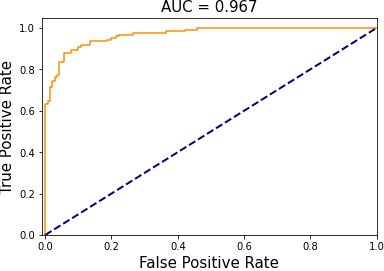
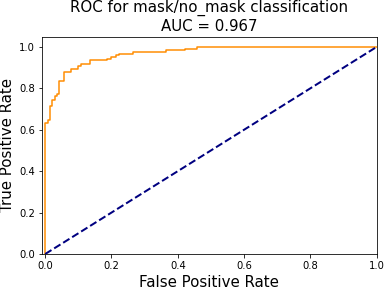
updating evaluation in the readme

Changed region(s): [[0.0, 0.0, 1.0, 1.0], [0.0312, 0.1476, 0.0938, 0.1771]]

diff --git a/README.MD b/README.MD
@@ -48,33 +48,33 @@ This allows us to keep track of performance on artificial and real data separate
 
 #### Overall evaluation
 
-Our test set of 135 images contains 254 faces, of which 136 are unmasked.
+Our test set of 135 images contains 249 faces, of which 130 are unmasked.
 
-The following table summarizes the performance of the complete pipeline (i.e. the face detector followed by the classifier).  
-We consider a face to be identified if the face detector produces a bounding box with an intersection over union (IoU) > 0.5 with the ground truth bounding box corresponding to that face.
+The following table summarizes the performance of the complete pipeline (i.e. the face detector followed by the classifier). We apply the mask/no_mask classifier to the cropped faces extracted by the face detector, and compare the resulting labels to the ground-truth labels of matching ground-truth face bounding boxes. A predicted face bounding box matches a ground truth bounding box if their intersection over union (IoU) > 0.5.
 
-The two most relevant metrics are the true negative rate (TNR) and the false negative rate (FNR). The first one tells us how many of the unmasked faces we detect, and the second one how many times we incorrectly identify an unmasked face.
-
-128 of the 136 unmasked faces were identified correctly, resulting in a **true negative rate (TNR) of 94%**. 20 of the 118 masked faces were incorrectly identified as unmasked, resulting in a **false negative rate (FNR) of 15.7%**.
 
 
 |    |      ground truth      |  identified and classified correctly | identified but classified wrongly | not identified by detector |
 |----------|:-------------:|------:| ------:|------:|
-| masked faces |  127 |  97 | 20 | 10 |
-| unmasked faces |    136   |   128 | 3 | 5  |
+| masked faces |  119 |  95 | 14 | 10 |
+| unmasked faces |    130   |   115 | 7 | 8  |
 
-The pipeline also incorrectly identified 6 faces that did not match any face in the ground truth, 5 of them were subsequently classified as non-masked and 1 as masked.
 
+The two most relevant metrics are the true negative rate (TNR) and the false negative rate (FNR). The first one tells us how many of the unmasked faces we detect, and the second one how many times we incorrectly identify an unmasked face. 115 of the 130 unmasked faces were identified correctly, resulting in a **true negative rate (TNR) of 88.5%**. 14 of the 119 masked faces were incorrectly identified as unmasked, resulting in a **false negative rate (FNR) of 11.8%**. The pipeline also incorrectly identified 15 faces that did not match any face in the ground truth, 7 of them were subsequently classified as non-masked and 1 as masked.
+
+While the previous statistics correspond to a mask/no_mask classification threshold at 0.5, we can of course vary this to trade off between better TNR or FNR. The following figure shows the ROC curve for the pipeline. For the generation of this ROC curve, we considered ground truth faces that were not detected by the face detector to be predicted as masked. After all, the aim is to detect unmasked faces so if the detector is not detecting any face it will have the same effect as predicting masked. Faces that are detected by the face detector but that don't exist in the ground truth were not taken into account in this ROC curve. 
+
+![](scripts/img/roc_complete.png "ROC curve")
 
 #### Evaluation of the face detector
 
-The face detector correctly identifies 94% of the ground truth faces in the test set (i.e. for 239 out of 254 ground truth bounding boxes there is a predicted bounding box with an IoU > 0.5). Of the 15 faces in the ground truth that it does not detect, 10 are masked and 5 are not masked. This means that 5 out of the 8 missed unmasked faces were due to the detector. The face detector also outputs 6 bounding boxes for the test set that do not correspond to faces, 5 of which were subsequently classified as masked.
+The face detector correctly identifies 92.8% of the ground truth faces in the test set (i.e. for 231 out of 249 ground truth bounding boxes there is a predicted bounding box with an IoU > 0.5). Of the 18 faces in the ground truth that it does not detect, 10 are masked and 8 are not masked. The face detector also outputs 15 bounding boxes for the test set that do not correspond to faces, 7 of which were subsequently classified as non masked.
 
 #### Evaluation of the mask/no mask classifier
 
-The mask/no mask classifier was evaluated on the faces that were correctly identified by the face detector. The inputs to the classifier were the crops corresponding to faces identified by the face detector. With a classification threshold at 0.5, this resulted in the confusion matrix given in columns 3 and 4 (identified and classified correcly, and identified but classified wrongly) of the table above. Of course we can easily trade off between TNR and FNR by changing the classification threshold. The following figure shows the ROC curve for the mask/no mask classifier.
+We have also evaluated the mask/no mask classifier separately based on our ground-truth annotations. With a classification threshold at 0.5, this resulted in an accuracy of 90%. The following figure shows the ROC curve for the mask/no mask classifier:
 
-![](scripts/img/roc.png "ROC curve")
+![](scripts/img/roc_classification.png "ROC curve")
 
 
 ## Getting Started
